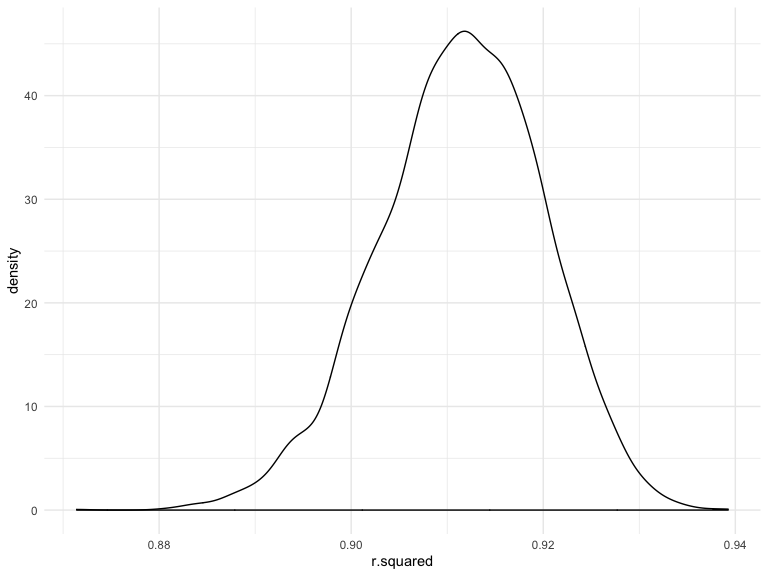
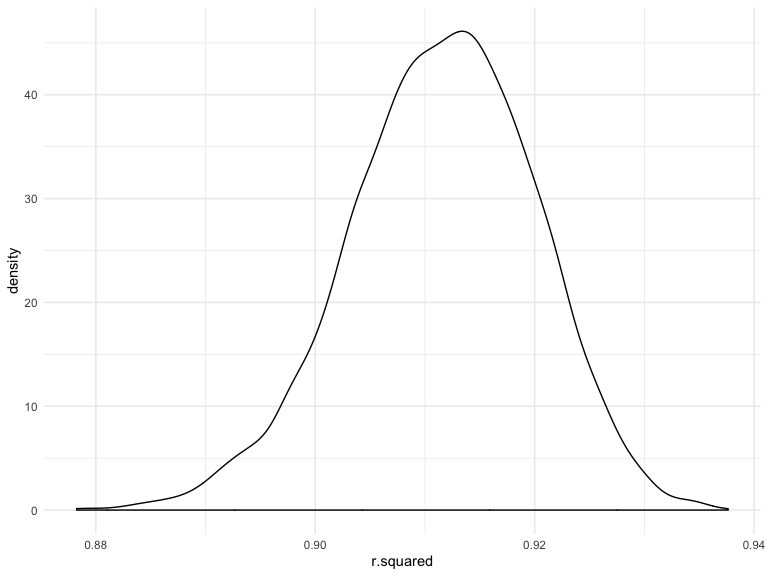
Complete code for HW6

diff --git a/p8105_hw6_md3851.md b/p8105_hw6_md3851.md
@@ -11,12 +11,15 @@ bwt_data = read_csv("./data/birthweight.csv") %>%
   janitor::clean_names() %>%
   mutate( 
     babysex = as.factor(babysex),
+    babysex = recode(babysex, "1" = "male", "2" = "female"),
     frace = as.factor(frace),
-    malform = as.factor(malform), 
+    frace = recode(frace, "1" = "white", "2" = "black", "3" = "asian", "4" = "puerto rican", "8" = "other", "9" = "unkown"),
+    malform = as.factor(malform),
+    malform = recode(malform, "0" = "absent", "1" = "present"),
     mrace = as.factor(mrace),
+    mrace = recode(mrace, "1" = "white", "2" = "black", "3" = "asian", "4" = "puerto rican", "8" = "other")
     ) %>%
-  drop_na() %>%
-  view()
+  drop_na() 
 ```
 
     ## Parsed with column specification:
@@ -27,29 +30,126 @@ bwt_data = read_csv("./data/birthweight.csv") %>%
     ## See spec(...) for full column specifications.
 
 ``` r
-model_1 = lm(bwt ~ gaweeks + wtgain + gaweeks*wtgain, data = bwt_data)
+bwt_data
+```
+
+    ## # A tibble: 4,342 x 20
+    ##    babysex bhead blength   bwt delwt fincome frace gaweeks malform menarche
+    ##    <fct>   <dbl>   <dbl> <dbl> <dbl>   <dbl> <fct>   <dbl> <fct>      <dbl>
+    ##  1 female     34      51  3629   177      35 white    39.9 absent        13
+    ##  2 male       34      48  3062   156      65 black    25.9 absent        14
+    ##  3 female     36      50  3345   148      85 white    39.9 absent        12
+    ##  4 male       34      52  3062   157      55 white    40   absent        14
+    ##  5 female     34      52  3374   156       5 white    41.6 absent        13
+    ##  6 male       33      52  3374   129      55 white    40.7 absent        12
+    ##  7 female     33      46  2523   126      96 black    40.3 absent        14
+    ##  8 female     33      49  2778   140       5 white    37.4 absent        12
+    ##  9 male       36      52  3515   146      85 white    40.3 absent        11
+    ## 10 male       33      50  3459   169      75 black    40.7 absent        12
+    ## # … with 4,332 more rows, and 10 more variables: mheight <dbl>,
+    ## #   momage <dbl>, mrace <fct>, parity <dbl>, pnumlbw <dbl>, pnumsga <dbl>,
+    ## #   ppbmi <dbl>, ppwt <dbl>, smoken <dbl>, wtgain <dbl>
+
+``` r
+model_selection = lm(bwt ~., data = bwt_data) %>% 
+  MASS::stepAIC(direction = "both", trace = FALSE) %>% 
+  summary()
+
+model_selection
+```
+
+    ## 
+    ## Call:
+    ## lm(formula = bwt ~ babysex + bhead + blength + delwt + fincome + 
+    ##     gaweeks + mheight + mrace + parity + ppwt + smoken, data = bwt_data)
+    ## 
+    ## Residuals:
+    ##      Min       1Q   Median       3Q      Max 
+    ## -1097.18  -185.52    -3.39   174.14  2353.44 
+    ## 
+    ## Coefficients:
+    ##                     Estimate Std. Error t value Pr(>|t|)    
+    ## (Intercept)       -6098.8219   137.5463 -44.340  < 2e-16 ***
+    ## babysexfemale        28.5580     8.4549   3.378 0.000737 ***
+    ## bhead               130.7770     3.4466  37.944  < 2e-16 ***
+    ## blength              74.9471     2.0190  37.120  < 2e-16 ***
+    ## delwt                 4.1067     0.3921  10.475  < 2e-16 ***
+    ## fincome               0.3180     0.1747   1.820 0.068844 .  
+    ## gaweeks              11.5925     1.4621   7.929 2.79e-15 ***
+    ## mheight               6.5940     1.7849   3.694 0.000223 ***
+    ## mraceblack         -138.7925     9.9071 -14.009  < 2e-16 ***
+    ## mraceasian          -74.8868    42.3146  -1.770 0.076837 .  
+    ## mracepuerto rican  -100.6781    19.3247  -5.210 1.98e-07 ***
+    ## parity               96.3047    40.3362   2.388 0.017004 *  
+    ## ppwt                 -2.6756     0.4274  -6.261 4.20e-10 ***
+    ## smoken               -4.8434     0.5856  -8.271  < 2e-16 ***
+    ## ---
+    ## Signif. codes:  0 '***' 0.001 '**' 0.01 '*' 0.05 '.' 0.1 ' ' 1
+    ## 
+    ## Residual standard error: 272.3 on 4328 degrees of freedom
+    ## Multiple R-squared:  0.7181, Adjusted R-squared:  0.7173 
+    ## F-statistic: 848.1 on 13 and 4328 DF,  p-value: < 2.2e-16
+
+Model selection was automated with the stepAIC function from the MASS package. The direction was set to "both" so that both forward and backward selection were completed. The results return the best model, which is then labeled as model\_1 below.
+
+``` r
+model_1 = lm(bwt ~ babysex + bhead + blength + delwt + fincome + 
+    gaweeks + mheight + mrace + parity + ppwt + smoken, data = bwt_data)
 
 bwt_data %>% 
   add_residuals(model_1) %>%
   add_predictions(model_1) %>% 
   ggplot(aes(x = pred, y = resid)) + 
-  geom_point()
+  geom_point() + 
+  labs(
+       title = "Model_1 Residual Plot", 
+       x = "Predictions",
+       y = "Standardized Residuals")
 ```
 
-<img src="p8105_hw6_md3851_files/figure-markdown_github/unnamed-chunk-1-1.png" width="90%" />
+<img src="p8105_hw6_md3851_files/figure-markdown_github/unnamed-chunk-3-1.png" width="90%" />
 
 ``` r
 model_2 = lm(bwt ~ blength + gaweeks, data = bwt_data)
 
+bwt_data %>% 
+  add_residuals(model_2) %>%
+  add_predictions(model_2) %>% 
+  ggplot(aes(x = pred, y = resid)) + 
+  geom_point() + 
+  labs(
+       title = "Model_2 Residual Plot", 
+       x = "Predictions",
+       y = "Standardized Residuals")
+```
+
+<img src="p8105_hw6_md3851_files/figure-markdown_github/unnamed-chunk-3-2.png" width="90%" />
+
+``` r
 model_3 = lm(bwt ~ bhead + blength + babysex +  bhead*blength + bhead*babysex + blength*babysex + bhead*blength*babysex, data = bwt_data)
 
-#Cross validation  
+bwt_data %>% 
+  add_residuals(model_3) %>%
+  add_predictions(model_3) %>% 
+  ggplot(aes(x = pred, y = resid)) + 
+  geom_point() +
+  labs(
+       title = "Model_3 Residual Plot", 
+       x = "Predictions",
+       y = "Standardized Residuals")
+```
 
+<img src="p8105_hw6_md3851_files/figure-markdown_github/unnamed-chunk-3-3.png" width="90%" />
+
+The three models and their associated residual plots are presented above.
+
+``` r
 cv_df = 
   crossv_mc(bwt_data, 100)
 
 cv_df = cv_df %>% 
-  mutate(model_1  = map(train, ~lm(bwt ~ gaweeks + wtgain + gaweeks*wtgain, data = .x)),
+  mutate(model_1  = map(train, ~lm(bwt ~ babysex + bhead + blength + delwt + fincome + 
+    gaweeks + mheight + mrace + parity + ppwt + smoken, data = .x)),
          model_2  = map(train, ~lm(bwt ~ blength + gaweeks, data = .x)),
          model_3  = map(train, ~lm(bwt ~ bhead + blength + babysex +  bhead*blength + bhead*babysex + blength*babysex + bhead*blength*babysex, data = .x))) %>% 
   mutate(rmse_1 = map2_dbl(model_1, test, ~rmse(model = .x, data = .y)),
@@ -57,8 +157,8 @@ cv_df = cv_df %>%
          rmse_3 = map2_dbl(model_3, test, ~rmse(model = .x, data = .y)))
 
 cv_plot = cv_df %>% 
-  select(starts_with("rmse")) %>% 
-pivot_longer(
+  select(starts_with("rmse"))%>% 
+  pivot_longer(
     everything(),
     names_to = "model", 
     values_to = "rmse",
@@ -69,7 +169,9 @@ pivot_longer(
 cv_plot 
 ```
 
-<img src="p8105_hw6_md3851_files/figure-markdown_github/unnamed-chunk-1-2.png" width="90%" />
+<img src="p8105_hw6_md3851_files/figure-markdown_github/unnamed-chunk-4-1.png" width="90%" />
+
+The cross-validation plot above shows the distribution of RMSE values for each candidate model. The RMSE is the square root of the variance of the residuals. It indicates the absolute fit of the model to the data–how close the observed data points are to the model’s predicted values. Given that model\_1 has the lowest RMSE values, this suggests that it performs better than the two other models. Similarly, model\_2 performs better than model\_3.
 
 Problem 2
 =========
@@ -86,23 +188,7 @@ weather_df =
     tmin = tmin / 10,
     tmax = tmax / 10) %>%
   select(name, id, everything())
-```
 
-    ## Registered S3 method overwritten by 'crul':
-    ##   method                 from
-    ##   as.character.form_file httr
-
-    ## Registered S3 method overwritten by 'hoardr':
-    ##   method           from
-    ##   print.cache_info httr
-
-    ## file path:          /Users/misbath/Library/Caches/rnoaa/ghcnd/USW00094728.dly
-
-    ## file last updated:  2019-09-26 10:25:42
-
-    ## file min/max dates: 1869-01-01 / 2019-09-30
-
-``` r
 boot_straps_tidy = weather_df %>% 
   bootstrap(n=5000) %>% 
   mutate(models = map(strap, ~lm(tmax ~ tmin, data = .x)),
@@ -123,16 +209,16 @@ boot_straps_tidy
     ## # A tibble: 5,000 x 4
     ##    .id   beta0 beta1   log
     ##    <chr> <dbl> <dbl> <dbl>
-    ##  1 0001   7.12  1.03  2.00
-    ##  2 0002   7.12  1.03  1.99
-    ##  3 0003   7.60  1.01  2.04
-    ##  4 0004   7.40  1.03  2.03
-    ##  5 0005   7.17  1.06  2.03
-    ##  6 0006   7.31  1.05  2.04
-    ##  7 0007   7.10  1.04  2.00
-    ##  8 0008   6.65  1.08  1.97
-    ##  9 0009   7.18  1.05  2.02
-    ## 10 0010   7.02  1.06  2.01
+    ##  1 0001   6.96  1.05  1.99
+    ##  2 0002   7.21  1.05  2.03
+    ##  3 0003   7.38  1.05  2.04
+    ##  4 0004   6.63  1.09  1.98
+    ##  5 0005   7.28  1.03  2.02
+    ##  6 0006   7.14  1.05  2.02
+    ##  7 0007   7.31  1.04  2.02
+    ##  8 0008   6.97  1.07  2.01
+    ##  9 0009   7.35  1.02  2.02
+    ## 10 0010   7.03  1.04  1.99
     ## # … with 4,990 more rows
 
 ``` r
@@ -150,16 +236,16 @@ boot_straps_glance
     ## # A tibble: 5,000 x 2
     ##    .id   r.squared
     ##    <chr>     <dbl>
-    ##  1 0001      0.898
-    ##  2 0002      0.914
-    ##  3 0003      0.914
-    ##  4 0004      0.921
-    ##  5 0005      0.910
-    ##  6 0006      0.902
-    ##  7 0007      0.925
-    ##  8 0008      0.920
-    ##  9 0009      0.901
-    ## 10 0010      0.922
+    ##  1 0001      0.917
+    ##  2 0002      0.913
+    ##  3 0003      0.911
+    ##  4 0004      0.916
+    ##  5 0005      0.916
+    ##  6 0006      0.915
+    ##  7 0007      0.923
+    ##  8 0008      0.900
+    ##  9 0009      0.922
+    ## 10 0010      0.902
     ## # … with 4,990 more rows
 
 ``` r
@@ -181,15 +267,37 @@ r_sq_plot
 <img src="p8105_hw6_md3851_files/figure-markdown_github/plots-2.png" width="90%" />
 
 ``` r
-quantile(pull(boot_straps_tidy, log), probs =c(0.025, 0.975))
+CI_rsquared = 
+  boot_straps_glance %>% 
+    summarize(
+    perc_2.5 = round(quantile(r.squared, 0.025),2),
+    perc_97.5 = round(quantile(r.squared, 0.975),2)) %>%
+  knitr::kable()
+
+CI_rsquared
 ```
 
-    ##     2.5%    97.5% 
-    ## 1.966835 2.058417
+|  perc\_2.5|  perc\_97.5|
+|----------:|-----------:|
+|       0.89|        0.93|
 
 ``` r
-quantile(pull(boot_straps_glance, r.squared), probs =c(0.025, 0.975))
+CI_log = 
+  boot_straps_tidy %>% 
+    summarize(
+    perc_2.5 = round(quantile(log, 0.025),2),
+    perc_97.5 = round(quantile(log, 0.975),2)) %>%
+  knitr::kable()
+
+CI_log
 ```
 
-    ##      2.5%     97.5% 
-    ## 0.8935228 0.9269732
+|  perc\_2.5|  perc\_97.5|
+|----------:|-----------:|
+|       1.97|        2.06|
+
+``` r
+#quantile(pull(boot_straps_tidy, log), probs =c(0.025, 0.975))
+
+#quantile(pull(boot_straps_glance, r.squared), probs =c(0.025, 0.975))
+```
